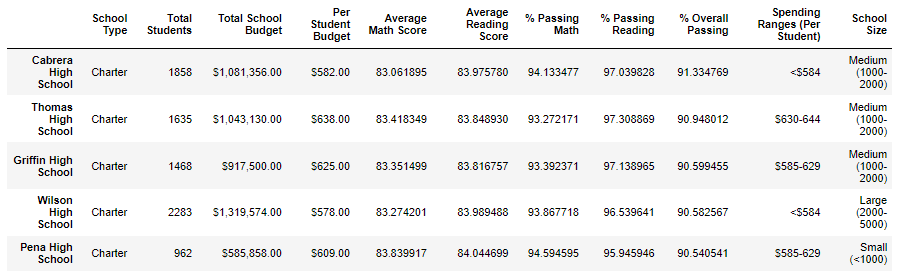
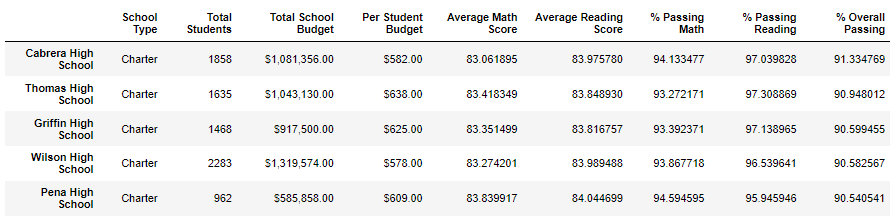
changed Top Schools PNG

diff --git a/README.md b/README.md
@@ -8,27 +8,35 @@ An analysis of a local school district's data.
 ## School District Analysis Results: 
 
 ### How is the district summary affected?
+OLD
 ![Old District Summary](https://github.com/boborodono/School_District_Analysis/blob/main/Resources/Images/Old_District_Summary.PNG)
+New
 ![New District Summary](https://github.com/boborodono/School_District_Analysis/blob/main/Resources/Images/New_District_Summary.PNG)
 
 ### How is the school summary affected?
+OLD
 ![Old School Summary](https://github.com/boborodono/School_District_Analysis/blob/main/Resources/Images/Old_School_Summary.PNG)
+NEW
 ![New School Summary](https://github.com/boborodono/School_District_Analysis/blob/main/Resources/Images/New_School_Summary.PNG)
 
 ### How does replacing the ninth graders’ math and reading scores affect Thomas High School’s performance relative to the other schools?
+OLD
 ![Thomas High School Old](https://github.com/boborodono/School_District_Analysis/blob/main/Resources/Images/Old_Top_Schools.PNG)
+NEW
 ![Thomas High School New](https://github.com/boborodono/School_District_Analysis/blob/main/Resources/Images/New_Top_Schools.PNG)
 
 ### How does replacing the ninth-grade scores affect the following:
 - Math and reading scores by grade
+OLD
 ![Math Scores by Grade - Old](https://github.com/boborodono/School_District_Analysis/blob/main/Resources/Images/THS_math_scores_old.PNG)
 ![Reading Scores by Grade - Old](https://github.com/boborodono/School_District_Analysis/blob/main/Resources/Images/THS_math_scores_new.PNG)
+NEW
 ![Math Scores by Grade -  New](https://github.com/boborodono/School_District_Analysis/blob/main/Resources/Images/THS_reading_scores_new.PNG)
+
 ![Reading Scores by Grade -  New](https://github.com/boborodono/School_District_Analysis/blob/main/Resources/Images/THS_reading_scores_old.PNG)
 
 - Scores by school spending
 ![Scores by school spending](https://github.com/boborodono/School_District_Analysis/blob/main/Resources/Images/School_spending_summary'.PNG)
-
 
 - Scores by school size
 ![Scores by school size](https://github.com/boborodono/School_District_Analysis/blob/main/Resources/Images/School_size_summary'.PNG)
